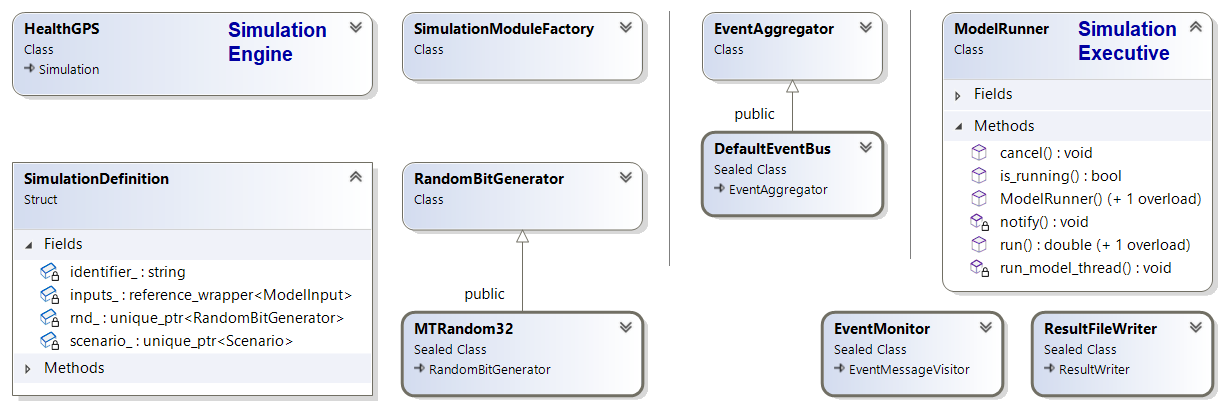
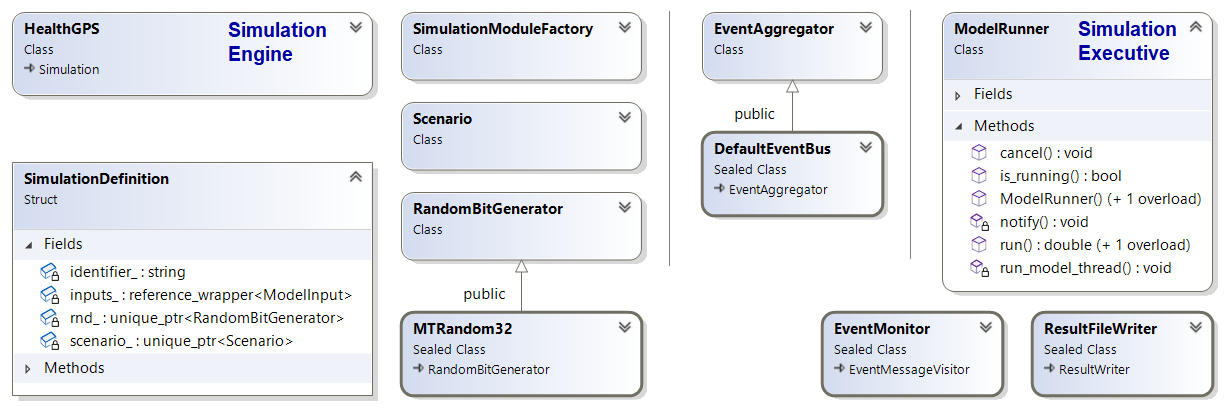
Added high level development documentation.

diff --git a/development.md b/development.md
@@ -86,7 +86,7 @@ The simulation executive requires a RandomBitGenerator interface implementation 
 
 EventMonitor class has been created to receive all messages from the microsimulation, notifications and error messages are displayed on the application terminal, and result messages are queued to be processed by an implementation of the ResultWriter interface, ResultFileWriter class in this example, which writes the results to a file in JSON format.
 
-The following code snippet shows how to compose a microsimulation using the classes discussed above. The modules factory holds the backend datastore instance, and allows dynamic registration of implementations for the required module types, the default module factory function registers the current production implementations. The contents of the input configuration file is loaded and processed to create the model input, a read-only data structure used to create all the simulation definitions.
+The following code snippet shows how to compose a microsimulation using the classes discussed above. The modules factory holds the backend datastore instance, and allows dynamic registration of implementations for the required module types, the default module factory function registers the current production implementations. The contents of the input configuration file is loaded and processed to create the model input, a read-only data structure shared with all the simulation engines. An implementation of *scenario* interface must be provided for each simulation definition, the *BaselineScenario* class is a generic type, while the intervention scenarios are defined to test specific policies.
 
 ```cpp
 // Create factory with backend data store and modules implementation
@@ -173,3 +173,19 @@ catch (const std::exception& ex) {
 event_monitor.stop();
 ```
 
+The simulation executive can run experiments for baseline scenario only, or baseline and intervention scenarios combination as shown above. The results message is a polymorphic type carrying a customisable data payload, table below shows the default implementation outputs.
+
+| Property     | Overall | Male  | Female | Description             |
+| :---         | :---:   | :---: | :---:  |:---                     |
+| Id           | √       | -     | -      | The message type identifier (results type)
+| Source       | √       | -     | -      | The results experiment identification |
+| Run number   | √       | -     | -      | The results rum number identification |
+| Model time   | √       | -     | -      | The results model time identification |
+| Average Age  | -       | √     | √      | Average age of the population alive |
+| Prevalence   | -       | √     | √      | Prevalence for each disease in the population |
+| Risk factors | -       | √     | √      | Average risk factor values in the population |
+| Indicators (DALYs) | √ | - | - | YLL, YLD and DALY values per 10000 people |
+| Population Counts | √ | - | - |  Total size, number alive, dead and emigrants |
+| Metrics | √ | - | - | Custom key/value metrics for algorithms |
+
+These measures are calculated and published by the analysis module at the end of each simulation time step, the combination of *source*, *run number* and *model time* is unique.
